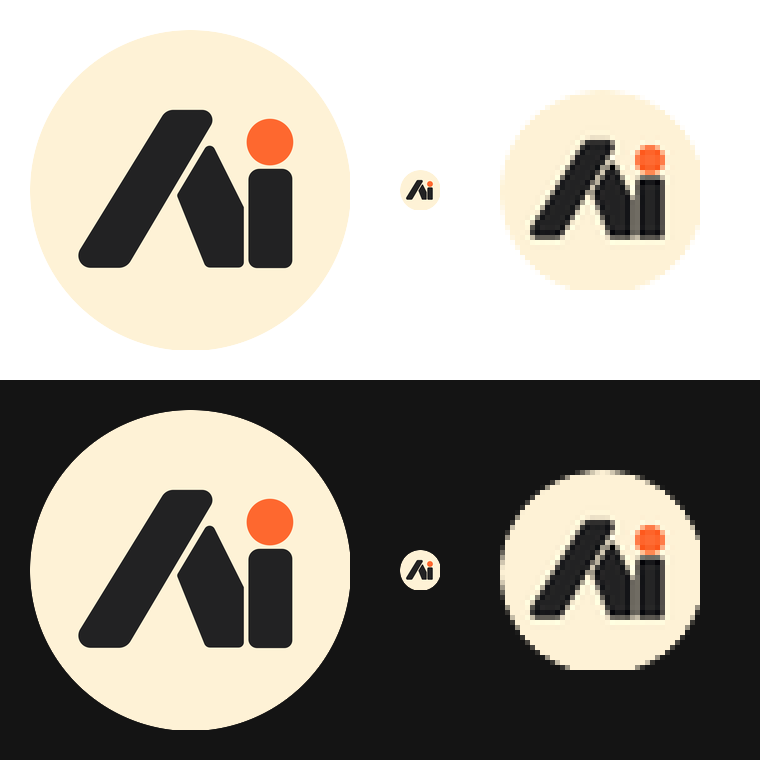
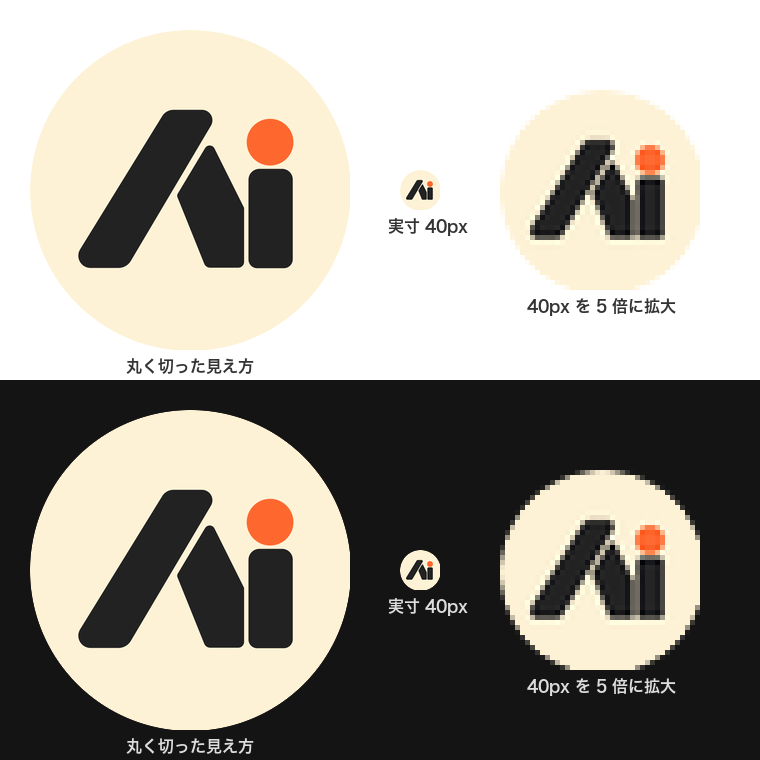
fix(brand,docs): adversarial-review fixes — re-measure edges at sub-pixel precision (i stem kept at its real width, no shape change; diff now 0.1% of ink), labelled preview, zoomed diff panel; rename guide: drop unsourced claims (link breakage, refresh time, PC steps, description rename), IG photo b
【一次資料】 Instagram Help Center 557544397610546 (ja, 2026-09-30: 写真を変更 → 写真をアップロード); YouTube Help 10456525 (2026-09-30)

diff --git a/docs/account-rename-guide.md b/docs/account-rename-guide.md
@@ -34,11 +34,10 @@
 1. **名前（表示名）**: 名前の欄を消して `AIの手習い｜毎朝1分、触って覚える` を貼り、［完了］。
    - ⚠ 名前を変えられる回数の制限（「14日間に2回まで」とよく言われるもの）は、**公式ヘルプでは確かめられなかった**。制限にかかっても困らないよう、決めた名前を 1 回で入れる。
 2. **ユーザーネーム（@）**: ユーザーネームの欄に ① `ai_tenarai` を入れる。「使用できません」と出たら ② `aitenarai`、次に ③ `ai.tenarai` を試す。空いているものに決めて［完了］。
-   - 使えるのは英字・数字・ピリオド（.）・アンダーバー（_）。[^ig-chars]
+   - 公式ヘルプでは、空いている名前を作る例として「ピリオド・数字・アンダーバーを足す」が挙がっている（候補の ② ③ もこの形）。[^ig-chars]
    - 多くの人に見られているアカウントは、ユーザーネームの変更に**審査が入ることがある**。また、フォロワーに変更が**通知されることがある**。[^ig-edit]
    - ⚠ 元のユーザーネームに戻せる条件（公式）: 「ほかの人がまだ取っていない」こと、「自分以外の使用中のアカウントから最近外されたものではない」こと。**「14日間は元に戻せる」という期間は、公式ヘルプには書かれていない**。手放した元の @ は、ほかの人が取れるようになると考えておく。[^ig-revert]
-   - これまでの投稿や他のサイトに書いた旧 `@` へのリンクは、新しい @ にはつながらない。
-3. **プロフィール写真**: ［写真やアバターを編集］→ 写真を選ぶ → 送っておいた `profile-icon.png` を選ぶ →（丸い枠の中に「Ai」全体が入っていることを確かめて）→［完了］。[^ig-photo]
+3. **プロフィール写真**: ［写真を変更］→［写真をアップロード］→ 送っておいた `profile-icon.png` を選ぶ →（丸い枠の中に「Ai」全体が入っていることを確かめて）→［完了］。[^ig-photo]
    - この画像は、丸く切っても字が欠けないように作ってある（字のいちばん外側でも、円の半径の 82% の位置までしかない）。拡大や位置の調整はしなくてよい。
 4. **自己紹介（任意）**: 変える場合は [account-identity.md](account-identity.md) の「プロフィール文の下書き」の **B AIの手習い** を貼る。
 
@@ -62,10 +61,8 @@
    - ⚠ ハンドルも **14日間に2回まで**。[^yt-edit]
    - 変えたあと **14日間は元のハンドル `@hal-ai-9000` が自分用に確保され、その間は元に戻せる**。この間は古い URL（`youtube.com/@hal-ai-9000`）も新しい URL も両方使える。14日を過ぎると元のハンドルはほかの人が取れるようになる。[^yt-handle-change]
 3. **プロフィール写真**: 編集画面でプロフィール写真（丸）をタップ → 送っておいた `profile-icon.png` を選ぶ →［保存］。
-   - 使える形式は JPG・GIF・BMP・PNG（動く GIF は不可）、15MB 以下、98×98 ピクセルで表示される。`profile-icon.png` は 1024×1024 の PNG で約 26KB なので条件を満たしている。反映には数分かかる。[^yt-photo]
-4. **説明文**: 2026-09-23 の決定どおり**変えない**。ただし説明文の中に旧名「HAL- AI情報カフェ」が書いてあれば、その名前だけを新しい名前に置き換える。
-
-（パソコンで変える場合は YouTube Studio の左メニュー「カスタマイズ」→「プロフィール」タブ。名前・ハンドル・写真が同じタブにあり、最後に右上の「公開」で確定する。）
+   - 使える形式は JPG・GIF・BMP・PNG（動く GIF は不可）、15MB 以下で、98×98 ピクセルで表示できる画像。`profile-icon.png` は 1024×1024 の PNG で約 26KB なので条件を満たしている。[^yt-photo]
+4. **説明文**: 2026-09-23 の決定どおり**変えない**（説明文の中に旧名「HAL- AI情報カフェ」が書いてあって気になるときは、司令塔に相談）。
 
 公式ヘルプで確かめられなかったこと: 名前やハンドルを変えるときの審査の有無、収益化しているチャンネルやブランドアカウント特有の注意。
 

diff --git a/docs/account-identity.md b/docs/account-identity.md
@@ -26,10 +26,10 @@
 **作り方（作り変えずに、そのままベクターに起こした）**
 
 - 元: `assets/brand/ai-2026-09-30b/b-tenarai/codex-reference.png`（1254×1254）。
-- 参考画像の画素から、各辺を直線に当てはめ（ずれは 1.3px 以内）、辺どうしの交点を角の位置にした。角の丸みは角ごとに、参考画像との違いが最も小さくなる半径を探して決めた（15〜53px、A の右の脚の右上の角だけ丸みなし）。オレンジの丸は縁の画素に円を当てはめた（中心 (940.3, 439.2)、半径 91.3）。
+- 参考画像の画素から、画素の濃さから辺の位置を 1px より細かく測って各辺を直線に当てはめ（ずれは 1.1px 以内）、辺どうしの交点を角の位置にした。角の丸みは角ごとに、参考画像との違いが最も小さくなる半径を探して決めた（16〜57px、A の右の脚の右上の角だけ丸みなし）。オレンジの丸は、塗られた面積と重心から円を求めた（中心 (940.8, 439.6)、半径 91.5）。
 - 色も参考画像から測った値: 地 生成り `#FEF2D6`／字 墨 `#222223`／点 オレンジ `#FE682F`（直し 2 の表の B の色 `#FBF1DC` `#1C1C1C` `#FF6B35` は Claude の仕上げ版の色で、採用した Codex 版とは少し違う）。
-- 結果: 同じ 1254×1254 で重ねると、違う画素は **2,174 個＝黒い字の面積の 0.7%**。どれも字の縁に沿った幅 2px 以内の線で（幅 2px を超えるずれは 0）、形・位置・大きさ・色は参考画像のまま（`compare.png`、`build.sh` を流すと数字が出る）。
-- 直したのは 1 か所だけ: i の縦棒の右の縁が、参考画像では上から下へ 2px ほど斜めに流れていた（画像生成のゆらぎ）ので、まっすぐにした（右の縁 x=1028）。
+- 結果: 同じ 1254×1254 で重ねると、違う画素は **351 個＝黒い字の面積の 0.1%**。どれも字の縁に沿った幅 2px 以内の点や線で（幅 2px を超えるずれは 0）、形・位置・大きさ・色は参考画像のまま（`compare.png`、`build.sh` を流すと数字が出る）。
+- 形の修正: **なし**。ベクターにするときに、辺は直線・角は円弧・点は正円で描いた（参考画像の縁のにじみは写していない）だけで、どの辺も参考画像の位置のまま（i の縦棒も参考画像どおり左の縁 856.2・右の縁 1029.7 のまっすぐな棒）。
 - **余白の調整: なし**。丸く切ったとき、字のいちばん外側（A の左下の角）でも中心から 514px＝円の半径 627px の 82% の位置にあり、A の左下も i の点も欠けない（i の点のいちばん外側は中心から 457px＝73%）。そのため参考画像の余白・配置をそのまま使った。
 - 字はフォントを使わず図形で描いた（明朝なし・使用許諾の心配なし）。有料素材なし。
 
